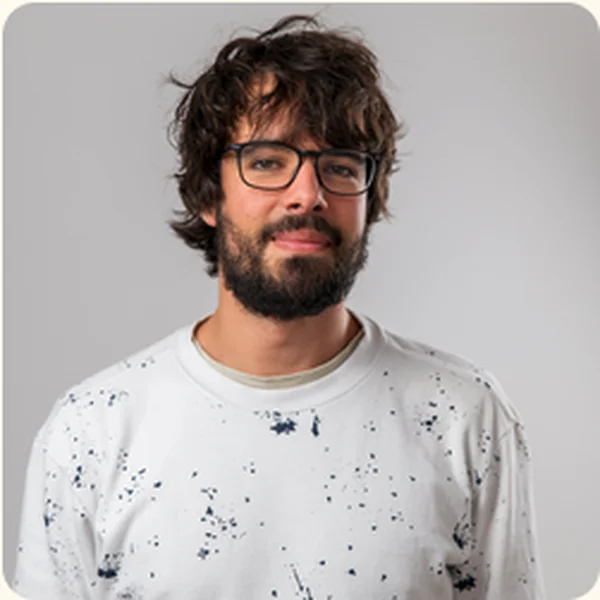
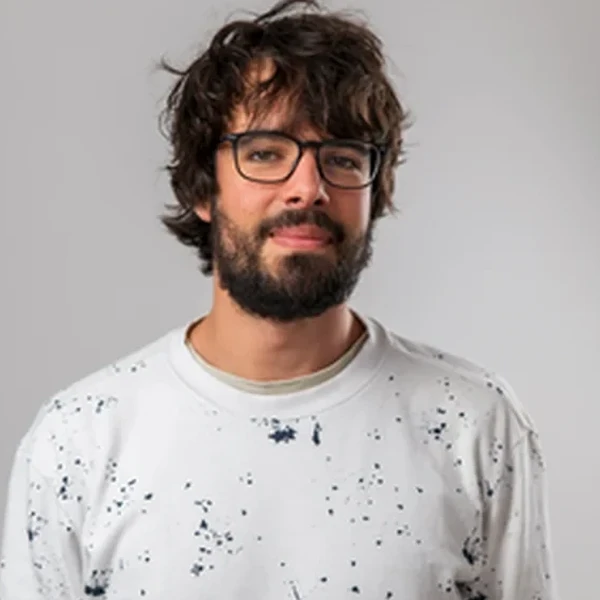
feat: add team portraits and refine role bios

diff --git a/index.html b/index.html
@@ -290,7 +290,7 @@
           <div class="team-card__photo">
             <picture>
               <source srcset="assets/images/team/benjamin-sturgeon.webp" type="image/webp">
-              <img src="assets/images/team/benjamin-sturgeon.png" alt="Benjamin Sturgeon" width="600" height="600" loading="lazy" />
+              <img src="assets/images/team/benjamin-sturgeon.jpeg" alt="Benjamin Sturgeon" width="600" height="600" loading="lazy" />
             </picture>
           </div>
           <h3>Benjamin Sturgeon</h3>
@@ -322,10 +322,10 @@
         </div>
 
         <div class="team-card">
-          <div class="team-card__photo"><img src="assets/images/team/alexa-blagus.svg" alt="Alexa Blagus" width="600" height="600" loading="lazy" /></div>
+          <div class="team-card__photo"><picture><source srcset="assets/images/team/alexa.webp" type="image/webp"><img src="assets/images/team/alexa.jpeg" alt="Alexa Blagus" width="600" height="600" loading="lazy" /></picture></div>
           <h3>Alexa Blagus</h3>
           <span class="role">Workspace Manager</span>
-          <p>Alexa is a marketing and operations professional who coordinates projects, manages timelines, and helps create strong customer and community experiences. At CISAI, she brings a hands-on, organised approach to supporting the workspace and team. She is also the founder of CAYA Thrift, a sustainable fashion brand where she leads marketing, content, events, community building, and day-to-day operations.</p>
+          <p>Alexa is a marketing and operations professional who coordinates projects, manages timelines, and helps create strong customer and community experiences. As Workspace Manager, she keeps CISAI’s coworking space running smoothly, supporting members and visitors while managing suppliers, supplies, catering, events, and improvements to the space. She is also the founder of CAYA Thrift, a sustainable fashion brand.</p>
           <div class="team-card__links">
             <a class="team-card__icon-link" href="https://www.linkedin.com/in/alexa-blagus-113b9b194" target="_blank" rel="noopener" aria-label="LinkedIn">
               <svg viewBox="0 0 24 24"><path d="M4.98 3.5C4.98 4.88 3.87 6 2.5 6S0 4.88 0 3.5 1.12 1 2.5 1s2.48 1.12 2.48 2.5zM.5 8h4V23h-4V8zM8.5 8h3.8v2.05h.05c.53-1 1.83-2.05 3.77-2.05 4.03 0 4.78 2.65 4.78 6.1V23h-4v-6.9c0-1.65-.03-3.77-2.3-3.77-2.3 0-2.65 1.8-2.65 3.65V23h-4V8z"/></svg>
@@ -333,10 +333,10 @@
           </div>
         </div>
         <div class="team-card">
-          <div class="team-card__photo"><img src="assets/images/team/josh-stein.svg" alt="Josh Stein" width="600" height="600" loading="lazy" /></div>
+          <div class="team-card__photo"><picture><source srcset="assets/images/team/josh.webp" type="image/webp"><img src="assets/images/team/josh.jpeg" alt="Josh Stein" width="600" height="600" loading="lazy" /></picture></div>
           <h3>Josh Stein</h3>
           <span class="role">Community Manager</span>
-          <p>Josh is a community manager with a background in software engineering and AI safety research. He is interested in artificial intelligence, interpretability, and biomedical engineering, and holds an MSc in Biomedical Computing from the Technical University of Munich and a BSc in Electrical and Computer Engineering from the University of Cape Town.</p>
+          <p>Josh is a community manager who helps build a welcoming, inclusive, and engaged CISAI community. He brings a background in software engineering and AI safety research, and is interested in artificial intelligence and interpretability. He holds an MSc in Biomedical Computing from the Technical University of Munich and a BSc in Electrical and Computer Engineering from the University of Cape Town.</p>
           <div class="team-card__links">
             <a class="team-card__icon-link" href="https://www.linkedin.com/in/josh-s-5b4ab869" target="_blank" rel="noopener" aria-label="LinkedIn">
               <svg viewBox="0 0 24 24"><path d="M4.98 3.5C4.98 4.88 3.87 6 2.5 6S0 4.88 0 3.5 1.12 1 2.5 1s2.48 1.12 2.48 2.5zM.5 8h4V23h-4V8zM8.5 8h3.8v2.05h.05c.53-1 1.83-2.05 3.77-2.05 4.03 0 4.78 2.65 4.78 6.1V23h-4v-6.9c0-1.65-.03-3.77-2.3-3.77-2.3 0-2.65 1.8-2.65 3.65V23h-4V8z"/></svg>
@@ -344,10 +344,10 @@
           </div>
         </div>
         <div class="team-card">
-          <div class="team-card__photo"><img src="assets/images/team/isabella-hamilton-russell.svg" alt="Isabella Hamilton-Russell" width="600" height="600" loading="lazy" /></div>
+          <div class="team-card__photo"><picture><source srcset="assets/images/team/isabella.webp" type="image/webp"><img src="assets/images/team/isabella.jpeg" alt="Isabella Hamilton-Russell" width="600" height="600" loading="lazy" /></picture></div>
           <h3>Isabella Hamilton-Russell</h3>
           <span class="role">Program Manager</span>
-          <p>Isabella is a program manager, strategist, and coach focused on the human capabilities needed to navigate an era of AI. Her work spans social-emotional learning, early childhood education, organisational strategy, and building resilient, energising cultures.</p>
+          <p>Isabella is a program manager focused on delivering CISAI’s fellowships, residencies, university groups, and community programs. She brings a background in strategy, partnerships, and social impact, and is passionate about building the human capabilities needed to navigate an era of AI.</p>
           <div class="team-card__links">
             <a class="team-card__icon-link" href="https://www.linkedin.com/in/isabella-hamilton-russell-6a582919b" target="_blank" rel="noopener" aria-label="LinkedIn">
               <svg viewBox="0 0 24 24"><path d="M4.98 3.5C4.98 4.88 3.87 6 2.5 6S0 4.88 0 3.5 1.12 1 2.5 1s2.48 1.12 2.48 2.5zM.5 8h4V23h-4V8zM8.5 8h3.8v2.05h.05c.53-1 1.83-2.05 3.77-2.05 4.03 0 4.78 2.65 4.78 6.1V23h-4v-6.9c0-1.65-.03-3.77-2.3-3.77-2.3 0-2.65 1.8-2.65 3.65V23h-4V8z"/></svg>
